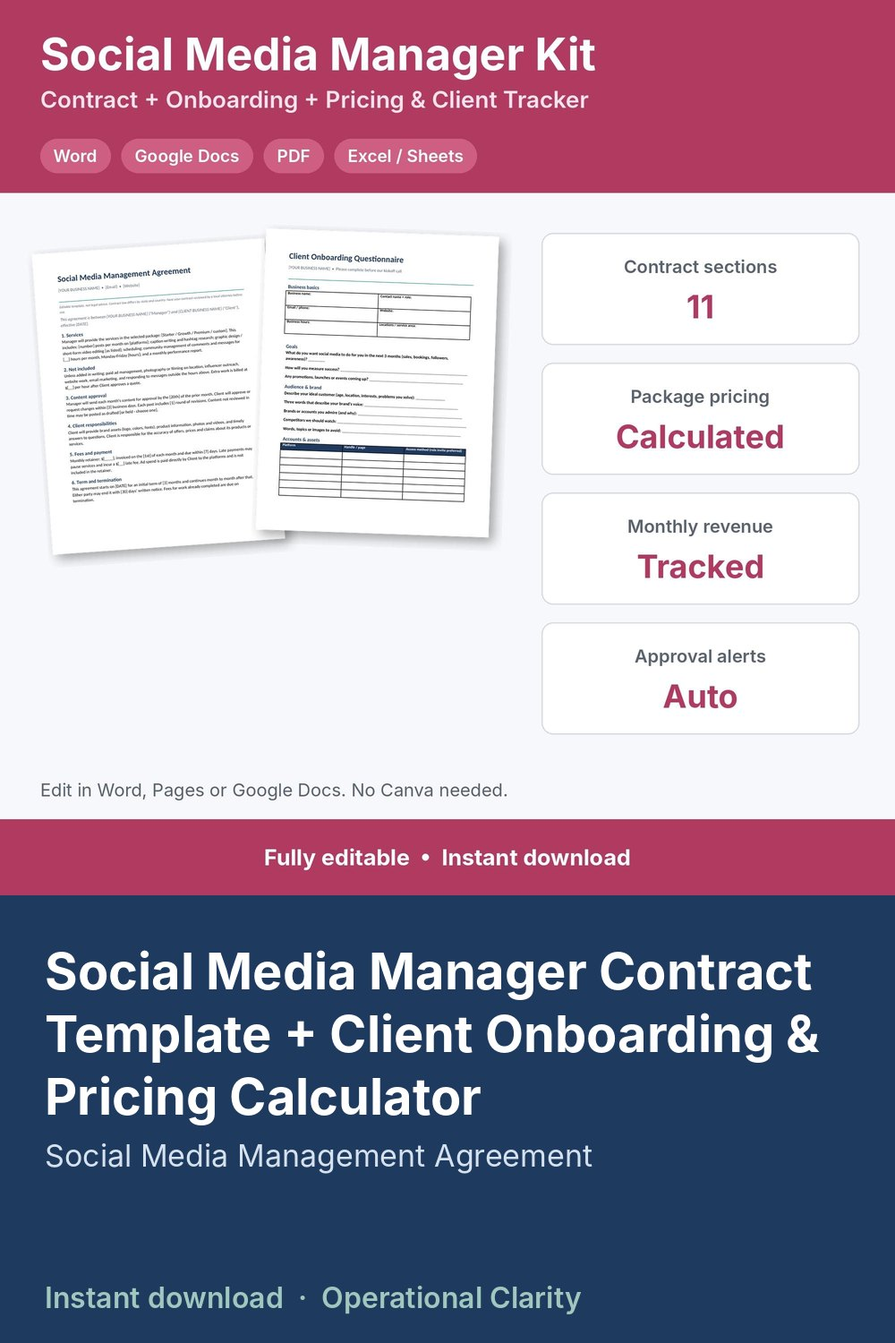
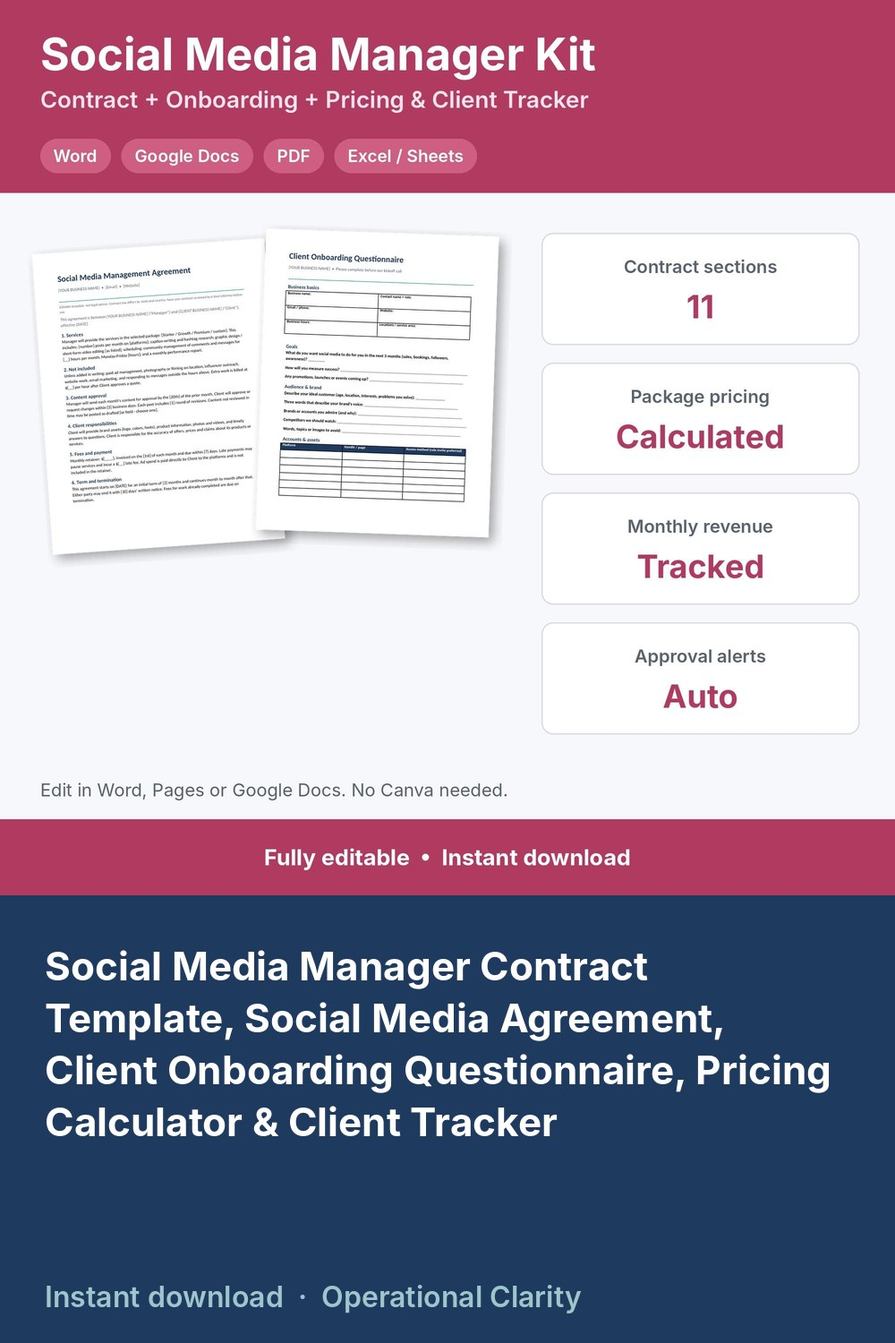
PROMO 10/30: pins for 2 rewritten listings (b) + Lash Tech (main, b); b-pin kicker cuts at commas; refresh feed

diff --git a/index.html b/index.html
@@ -7,6 +7,6 @@
 <div class="card"><h2><a href="recipe-cost-calculator.html">Recipe Cost Calculator</a></h2><p>Cost per batch, cost per serving and a suggested price for baked goods.</p></div>
 <div class="card"><h2><a href="paycheck-budget-calculator.html">Paycheck Budget Calculator</a></h2><p>Split bills across paychecks and see what is left from each one.</p></div>
 <div class="card"><h2><a href="landed-cost-calculator.html">Landed Cost Calculator</a></h2><p>True cost per unit after freight, duty and fees.</p></div>
-<h2 id="templates">Spreadsheet & Document Templates</h2><ul><li><a href="p/4595349035.html">2027 Planner Digital &amp; Printable</a></li><li><a href="p/4594598019.html">Airbnb Welcome Book Template Editable in Word Google Docs</a></li><li><a href="p/4602024296.html">Babysitting Forms Kit</a></li><li><a href="p/4553654453.html">Bakery Business Bundle</a></li><li><a href="p/4596837173.html">Bookkeeping Spreadsheet Small Business, Profit and Loss, Income Expense Tracker, Invoice Tracker, Bank Reconciliation, Accounting Template</a></li><li><a href="p/4554866019.html">Business Budget Spreadsheet</a></li><li><a href="p/4600601073.html">Candle Making Log Spreadsheet + Fragrance Load Calculator</a></li><li><a href="p/4601355308.html">Catering Contract Template Kit</a></li><li><a href="p/4598967865.html">Coffee Shop Business Plan Template + Startup &amp; Profit Planner Spreadsheet</a></li><li><a href="p/4602477706.html">Consignment Tracker Spreadsheet + Consignment Agreement</a></li><li><a href="p/4600607420.html">Consulting Contract Template + Statement of Work &amp; Proposal</a></li><li><a href="p/4554878636.html">Contract Tracker Spreadsheet</a></li><li><a href="p/4597002015.html">Cookie Pricing Calculator</a></li><li><a href="p/4601198780.html">Dance Studio Forms Kit</a></li><li><a href="p/4601100164.html">Daycare Menu Planner Spreadsheet + Weekly Menu Template</a></li><li><a href="p/4598811066.html">Embroidery Pricing Calculator Spreadsheet</a></li><li><a href="p/4594516468.html">Employee Schedule Template Excel Google Sheets</a></li><li><a href="p/4599677766.html">Event Planner Contract Template + Client Questionnaire &amp; Budget Tracker</a></li><li><a href="p/4599435344.html">Florist Order Form Template + Wedding Consultation Form &amp; Flower Pricing Calculator</a></li><li><a href="p/4602913827.html">Food Cost Bundle</a></li><li><a href="p/4597499808.html">Food Truck Business Plan Template + Startup &amp; Profit Planner Spreadsheet</a></li><li><a href="p/4602392090.html">Freelance Writer Contract Template Kit</a></li><li><a href="p/4601783746.html">Graphic Design Contract Template Kit</a></li><li><a href="p/4597022350.html">Home Daycare Starter Kit</a></li><li><a href="p/4601273740.html">Horse Boarding Contract Kit</a></li><li><a href="p/4552565761.html">Ingredient Cost Comparison Sheet</a></li><li><a href="p/4552578072.html">Inventory Count Sheet</a></li><li><a href="p/4554865995.html">Inventory Loss Tracker</a></li><li><a href="p/4553664350.html">Inventory Management Bundle</a></li><li><a href="p/4443844823.html">Inventory Tracker Spreadsheet with Reorder Alerts</a></li><li><a href="p/4602913735.html">Inventory and Ordering Bundle</a></li><li><a href="p/4554878596.html">Landed Cost Calculator Spreadsheet</a></li><li><a href="p/4602544610.html">Landscaping Contract Template Kit</a></li><li><a href="p/4598084241.html">Massage Intake Form, Massage Consent Form, Massage SOAP Notes, Health History + Client Tracker Spreadsheet</a></li><li><a href="p/4601646939.html">Mobile Bartending Contract Template Kit</a></li><li><a href="p/4554866001.html">Multi Location Inventory Tracker</a></li><li><a href="p/4602844224.html">Nail Tech Forms Kit</a></li><li><a href="p/4601947594.html">Nanny Contract Template Kit</a></li><li><a href="p/4594847811.html">Paycheck Budget Planner Spreadsheet</a></li><li><a href="p/4599761870.html">Personal Trainer Forms + Client Tracker</a></li><li><a href="p/4598178519.html">Pet Sitting Contract Template + Pet Care Sheet &amp; Booking Invoice Tracker</a></li><li><a href="p/4597992636.html">Photography Client Questionnaire Templates + Pricing Calculator &amp; Booking Tracker</a></li><li><a href="p/4599831777.html">Piano Lesson Tracker + Practice Assignment Sheet &amp; Studio Policy</a></li><li><a href="p/4594208500.html">Print on Demand Profit Tracker Spreadsheet</a></li><li><a href="p/4598251079.html">Printable Notary Journal 150 Entries + Notary Business Kit</a></li><li><a href="p/4554878680.html">Product Cost Calculator</a></li><li><a href="p/4603480063.html">Purchase Order + Inventory Dashboard</a></li><li><a href="p/4552565751.html">Purchase Order Approval Tracker</a></li><li><a href="p/4430807339.html">Purchase Order Tracker Spreadsheet &amp; Receiving Log</a></li><li><a href="p/4552578064.html">Purchasing SOP Templates</a></li><li><a href="p/4553664356.html">Purchasing Templates Bundle</a></li><li><a href="p/4558377143.html">QuickBooks Dashboard Template</a></li><li><a href="p/4554878614.html">Quote Comparison Spreadsheet</a></li><li><a href="p/4562652240.html">Recipe Cost Calculator Google Sheets Excel</a></li><li><a href="p/4552578048.html">Reorder Point Calculator</a></li><li><a href="p/4600974020.html">Restaurant Inventory Sheet + Food Cost Calculator</a></li><li><a href="p/4604903580.html">Restaurant Purchasing Bundle</a></li><li><a href="p/4604185746.html">Retail Shop Bundle</a></li><li><a href="p/4554878660.html">Returns Tracker Spreadsheet</a></li><li><a href="p/4554878628.html">Sales Forecast Spreadsheet</a></li><li><a href="p/4597001937.html">Salon Booth Rental Agreement Template</a></li><li><a href="p/4561265217.html">Simple Inventory Tracker Spreadsheet</a></li><li><a href="p/4605653122.html">Small Business Bookkeeping Dashboard</a></li><li><a href="p/4553654601.html">Small Business Operations Bundle</a></li><li><a href="p/4598888813.html">Soap Making Log Spreadsheet + Cost per Bar Calculator</a></li><li><a href="p/4598679324.html">Social Media Manager Contract Template + Client Onboarding &amp; Pricing Calculator</a></li><li><a href="p/4552578060.html">Supplier Price Tracker</a></li><li><a href="p/4552578052.html">Supplier Tracker Spreadsheet</a></li><li><a href="p/4602618784.html">Tattoo Consent Form Kit</a></li><li><a href="p/4596131544.html">Tax Deduction Tracker Spreadsheet</a></li><li><a href="p/4601852361.html">Tutoring Contract Template Kit</a></li><li><a href="p/4552565827.html">Vendor Onboarding Checklist</a></li><li><a href="p/4599059861.html">Virtual Assistant Contract Template + Client Onboarding &amp; Retainer Time Tracker</a></li><li><a href="p/4554865969.html">Warehouse Spreadsheet</a></li><li><a href="p/4602285754.html">Web Design Contract Template Kit</a></li><li><a href="p/4598332795.html">Wholesale Order Form Template + Wholesale Order Tracker Spreadsheet</a></li><li><a href="p/4561283977.html">Wholesale Price List Template Excel Google Sheets</a></li></ul>
+<h2 id="templates">Spreadsheet & Document Templates</h2><ul><li><a href="p/4595349035.html">2027 Planner Digital &amp; Printable</a></li><li><a href="p/4594598019.html">Airbnb Welcome Book Template Editable in Word Google Docs</a></li><li><a href="p/4602024296.html">Babysitting Forms Kit</a></li><li><a href="p/4553654453.html">Bakery Business Bundle</a></li><li><a href="p/4596837173.html">Bookkeeping Spreadsheet Small Business, Profit and Loss, Income Expense Tracker, Invoice Tracker, Bank Reconciliation, Accounting Template</a></li><li><a href="p/4554866019.html">Business Budget Spreadsheet</a></li><li><a href="p/4600601073.html">Candle Making Log Spreadsheet + Fragrance Load Calculator</a></li><li><a href="p/4601355308.html">Catering Contract Template Kit</a></li><li><a href="p/4598967865.html">Coffee Shop Business Plan Template + Startup &amp; Profit Planner Spreadsheet</a></li><li><a href="p/4602477706.html">Consignment Tracker Spreadsheet + Consignment Agreement</a></li><li><a href="p/4600607420.html">Consulting Contract Template + Statement of Work &amp; Proposal</a></li><li><a href="p/4554878636.html">Contract Tracker Spreadsheet</a></li><li><a href="p/4597002015.html">Cookie Pricing Calculator</a></li><li><a href="p/4601198780.html">Dance Studio Forms Kit</a></li><li><a href="p/4601100164.html">Daycare Menu Planner Spreadsheet + Weekly Menu Template</a></li><li><a href="p/4598811066.html">Embroidery Pricing Calculator Spreadsheet</a></li><li><a href="p/4594516468.html">Employee Schedule Template Excel Google Sheets</a></li><li><a href="p/4599677766.html">Event Planning Contract Template, Editable Event Planner Contract, Wedding Planner Agreement, Client Questionnaire, Budget &amp; Vendor Tracker</a></li><li><a href="p/4599435344.html">Florist Order Form Template + Wedding Consultation Form &amp; Flower Pricing Calculator</a></li><li><a href="p/4602913827.html">Food Cost Bundle</a></li><li><a href="p/4597499808.html">Food Truck Business Plan Template + Startup &amp; Profit Planner Spreadsheet</a></li><li><a href="p/4602392090.html">Freelance Writer Contract Template Kit</a></li><li><a href="p/4601783746.html">Graphic Design Contract Template Kit</a></li><li><a href="p/4597022350.html">Home Daycare Starter Kit</a></li><li><a href="p/4601273740.html">Horse Boarding Contract Kit</a></li><li><a href="p/4552565761.html">Ingredient Cost Comparison Sheet</a></li><li><a href="p/4552578072.html">Inventory Count Sheet</a></li><li><a href="p/4554865995.html">Inventory Loss Tracker</a></li><li><a href="p/4553664350.html">Inventory Management Bundle</a></li><li><a href="p/4443844823.html">Inventory Tracker Spreadsheet with Reorder Alerts</a></li><li><a href="p/4602913735.html">Inventory and Ordering Bundle</a></li><li><a href="p/4554878596.html">Landed Cost Calculator Spreadsheet</a></li><li><a href="p/4602544610.html">Landscaping Contract Template Kit</a></li><li><a href="p/4606330823.html">Lash Tech Forms Kit</a></li><li><a href="p/4598084241.html">Massage Intake Form, Massage Consent Form, Massage SOAP Notes, Health History + Client Tracker Spreadsheet</a></li><li><a href="p/4601646939.html">Mobile Bartending Contract Template Kit</a></li><li><a href="p/4554866001.html">Multi Location Inventory Tracker</a></li><li><a href="p/4602844224.html">Nail Tech Forms Kit</a></li><li><a href="p/4601947594.html">Nanny Contract Template Kit</a></li><li><a href="p/4594847811.html">Paycheck Budget Planner Spreadsheet</a></li><li><a href="p/4599761870.html">Personal Trainer Forms + Client Tracker</a></li><li><a href="p/4598178519.html">Pet Sitting Contract Template + Pet Care Sheet &amp; Booking Invoice Tracker</a></li><li><a href="p/4597992636.html">Photography Client Questionnaire Templates + Pricing Calculator &amp; Booking Tracker</a></li><li><a href="p/4599831777.html">Piano Lesson Tracker + Practice Assignment Sheet &amp; Studio Policy</a></li><li><a href="p/4594208500.html">Print on Demand Profit Tracker Spreadsheet</a></li><li><a href="p/4598251079.html">Printable Notary Journal 150 Entries + Notary Business Kit</a></li><li><a href="p/4554878680.html">Product Cost Calculator</a></li><li><a href="p/4603480063.html">Purchase Order + Inventory Dashboard</a></li><li><a href="p/4552565751.html">Purchase Order Approval Tracker</a></li><li><a href="p/4430807339.html">Purchase Order Tracker Spreadsheet &amp; Receiving Log</a></li><li><a href="p/4552578064.html">Purchasing SOP Templates</a></li><li><a href="p/4553664356.html">Purchasing Templates Bundle</a></li><li><a href="p/4558377143.html">QuickBooks Dashboard Template</a></li><li><a href="p/4554878614.html">Quote Comparison Spreadsheet</a></li><li><a href="p/4562652240.html">Recipe Cost Calculator Google Sheets Excel</a></li><li><a href="p/4552578048.html">Reorder Point Calculator</a></li><li><a href="p/4600974020.html">Restaurant Inventory Sheet + Food Cost Calculator</a></li><li><a href="p/4604903580.html">Restaurant Purchasing Bundle</a></li><li><a href="p/4604185746.html">Retail Shop Bundle</a></li><li><a href="p/4554878660.html">Returns Tracker Spreadsheet</a></li><li><a href="p/4554878628.html">Sales Forecast Spreadsheet</a></li><li><a href="p/4597001937.html">Salon Booth Rental Agreement Template</a></li><li><a href="p/4561265217.html">Simple Inventory Tracker Spreadsheet</a></li><li><a href="p/4605653122.html">Small Business Bookkeeping Dashboard</a></li><li><a href="p/4553654601.html">Small Business Operations Bundle</a></li><li><a href="p/4598888813.html">Soap Making Log Spreadsheet + Cost per Bar Calculator</a></li><li><a href="p/4598679324.html">Social Media Manager Contract Template, Social Media Agreement, Client Onboarding Questionnaire, Pricing Calculator &amp; Client Tracker</a></li><li><a href="p/4552578060.html">Supplier Price Tracker</a></li><li><a href="p/4552578052.html">Supplier Tracker Spreadsheet</a></li><li><a href="p/4602618784.html">Tattoo Consent Form Kit</a></li><li><a href="p/4596131544.html">Tax Deduction Tracker Spreadsheet</a></li><li><a href="p/4601852361.html">Tutoring Contract Template Kit</a></li><li><a href="p/4552565827.html">Vendor Onboarding Checklist</a></li><li><a href="p/4599059861.html">Virtual Assistant Contract Template + Client Onboarding &amp; Retainer Time Tracker</a></li><li><a href="p/4554865969.html">Warehouse Spreadsheet</a></li><li><a href="p/4602285754.html">Web Design Contract Template Kit</a></li><li><a href="p/4598332795.html">Wholesale Order Form Template + Wholesale Order Tracker Spreadsheet</a></li><li><a href="p/4561283977.html">Wholesale Price List Template Excel Google Sheets</a></li></ul>
 <p>Want the full spreadsheet versions? <a class="cta" href="https://www.etsy.com/shop/Operationalclarity">Browse all templates on Etsy</a></p>
 </main><footer>Free tools by <a href="https://www.etsy.com/shop/Operationalclarity">Operational Clarity</a>. Estimates only, not financial or tax advice. Not affiliated with Etsy.</footer></body></html>

diff --git a/p/4606330823.html b/p/4606330823.html
@@ -1,0 +1,8 @@
+<!doctype html><html lang="en"><head><meta charset="utf-8"><meta name="viewport" content="width=device-width,initial-scale=1">
+<title>Lash Tech Forms Kit | Operational Clarity</title><meta name="description" content="Price your sets and fills, get the consent form and patch test record on file, and know when every client is due for a fill: a complete lash tech forms kit">
+<link rel="canonical" href="https://hgmanagementusa-bot.github.io/operationalclarity-tools/p/4606330823.html"><link rel="stylesheet" href="../style.css">
+<meta property="og:title" content="Lash Tech Forms Kit"><meta property="og:image" content="https://hgmanagementusa-bot.github.io/operationalclarity-tools/pins/4606330823.jpg"><meta property="og:type" content="product"></head>
+<body><header><a href="../index.html">Operational Clarity · Small Business Templates</a></header><main>
+<h1>Lash Tech Forms Kit</h1><img src="../pins/4606330823.jpg" alt="Lash Tech Forms Kit" style="max-width:100%;height:auto;border-radius:8px">
+<p><a class="cta" href="https://www.etsy.com/listing/4606330823/lash-tech-forms-kit-editable-eyelash">Get it on Etsy</a></p><p>Price your sets and fills, get the consent form and patch test record on file, and know when every client is due for a fill: a complete lash tech forms kit with a working pricing calculator and client tracker, not just a few printable pages.</p><p>WHAT&#x27;S INSIDE<br>- Eyelash Extension Intake &amp; Consent Form (Word + PDF, 2 pages): client details, service and look wanted, simple yes / no client self-disclosure questions, patch test record or signed decline, 8 initialed acknowledgments (natural lash cycle and retention, no picking, professional removal, fill terms, written aftercare received, studio policies agreed), consent and release, photo consent, client and lash artist signatures, review / update log.<br>- Lash Studio Policies (Word + PDF): 9 ready-to-edit policies for deposits, arriving lash-ready, late arrivals, cancellations and no-shows, fills (fill window and % of lashes left), removals, patch tests, guests and children, payments and right to refuse, plus a blank page for your own aftercare instructions.<br>- Lash Map &amp; Service Record (Word + PDF, 2 pages): lash map by zone for each eye (lengths, curl, diameter, fans, style, look), visit history with days since last visit and retention %, deposits and balances, retention notes.<br>- Lash Service Menu &amp; Price List (Word + PDF): editable menu with times and prices for full sets, fills, lifts and add-ons.<br>- Lash Tech Pricing Calculator &amp; Client Tracker (Google Sheets / Excel, 6 tabs):<br>  * Service Menu: minutes, product cost and your price for each set, fill, lift and add-on; suggested price from your target hourly pay, overhead and card fees; what you keep and your real pay per hour; BELOW SUGGESTED flag<br>  * Settings: target pay, monthly overhead, booked hours, card fees, deposit % and minimum, rounding, fill window<br>  * Clients: contact details, lash map, consent form date, patch test date or waiver, visits, total spent, average retention at fills, next fill due and rebook alerts (REBOOK NOW / DUE SOON / BOOKED); no health information stored<br>  * Appointments: service and add-on looked up from your menu, discounts, deposits, refunds, status, retention % at fills, days since last visit, balances and alerts (CONSENT MISSING / PATCH TEST MISSING / BALANCE DUE / DEPOSIT DUE / SEND FORMS / FILL WINDOW PASSED / UPCOMING / UPDATE STATUS)<br>  * Dashboard: revenue, tips, product costs, card fees, what you keep, pay per hour worked, average ticket, average retention, no-show rate, deposits held, month-by-month and service-by-service tables, chart and a list of appointments that need attention<br>- START HERE guide (PDF)</p><p>HOW IT WORKS<br>1. Enter your target pay, overhead, card fees and fill window on Settings.<br>2. Add your services on the Service Menu tab, fix anything flagged BELOW SUGGESTED, and copy your prices into the printable menu.<br>3. Send new clients the policies and the Intake &amp; Consent Form before their first set; note the consent date and patch test (or waiver) on Clients.<br>4. Log each booking and deposit; price, time and product cost fill in automatically, and late fills are flagged.<br>5. After each visit, record payment, tip and retention %, and watch the alerts for missing forms, balances, deposits and clients due for a fill.<br>Example data (10 services, 14 sample clients, 60 appointments) shows how it all connects; delete it and type your own. Yellow cells = type here, green cells = calculated.</p><p>FORMATS<br>- Word .docx (edit in Microsoft Word, Google Docs, Pages or LibreOffice) + PDF, US Letter<br>- Excel .xlsx made for Google Sheets (also works in Excel and LibreOffice; no macros)</p><p>This is an instant digital download, no physical item will be shipped.</p><p>Editable template, not legal advice. Have it reviewed by a local attorney and check your state board of cosmetology and local requirements (consent wording, patch tests, client records) before you use it. The client questions are simple yes / no self-disclosures: information only, not a medical screening tool and not medical advice. No aftercare or medical advice is included.</p><p><a class="cta" href="https://www.etsy.com/listing/4606330823/lash-tech-forms-kit-editable-eyelash">Get it on Etsy</a></p>
+</main><footer>By <a href="https://www.etsy.com/shop/Operationalclarity">Operational Clarity</a>. Not affiliated with Etsy.</footer></body></html>

diff --git a/p/4598679324.html b/p/4598679324.html
@@ -1,8 +1,8 @@
 <!doctype html><html lang="en"><head><meta charset="utf-8"><meta name="viewport" content="width=device-width,initial-scale=1">
-<title>Social Media Manager Contract Template + Client Onboarding &amp; Pricing Calculator | Operational Clarity</title><meta name="description" content="SOCIAL MEDIA MANAGER CONTRACT TEMPLATE KIT | Social Media Management Agreement + Client Onboarding Questionnaire + Monthly Report + Pricing Calculator &amp; Cl">
+<title>Social Media Manager Contract Template, Social Media Agreement, Client Onboarding Questionnaire, Pricing Calculator &amp; Client Tracker | Operational Clarity</title><meta name="description" content="SOCIAL MEDIA MANAGER CONTRACT TEMPLATE KIT | Social Media Management Agreement + Client Onboarding Questionnaire + Monthly Report + Pricing Calculator &amp; Cl">
 <link rel="canonical" href="https://hgmanagementusa-bot.github.io/operationalclarity-tools/p/4598679324.html"><link rel="stylesheet" href="../style.css">
-<meta property="og:title" content="Social Media Manager Contract Template + Client Onboarding &amp; Pricing Calculator"><meta property="og:image" content="https://hgmanagementusa-bot.github.io/operationalclarity-tools/pins/4598679324.jpg"><meta property="og:type" content="product"></head>
+<meta property="og:title" content="Social Media Manager Contract Template, Social Media Agreement, Client Onboarding Questionnaire, Pricing Calculator &amp; Client Tracker"><meta property="og:image" content="https://hgmanagementusa-bot.github.io/operationalclarity-tools/pins/4598679324.jpg"><meta property="og:type" content="product"></head>
 <body><header><a href="../index.html">Operational Clarity · Small Business Templates</a></header><main>
-<h1>Social Media Manager Contract Template + Client Onboarding &amp; Pricing Calculator</h1><img src="../pins/4598679324.jpg" alt="Social Media Manager Contract Template + Client Onboarding &amp; Pricing Calculator" style="max-width:100%;height:auto;border-radius:8px">
+<h1>Social Media Manager Contract Template, Social Media Agreement, Client Onboarding Questionnaire, Pricing Calculator &amp; Client Tracker</h1><img src="../pins/4598679324.jpg" alt="Social Media Manager Contract Template, Social Media Agreement, Client Onboarding Questionnaire, Pricing Calculator &amp; Client Tracker" style="max-width:100%;height:auto;border-radius:8px">
 <p><a class="cta" href="https://www.etsy.com/listing/4598679324/social-media-manager-contract-template">Get it on Etsy</a></p><p>SOCIAL MEDIA MANAGER CONTRACT TEMPLATE KIT | Social Media Management Agreement + Client Onboarding Questionnaire + Monthly Report + Pricing Calculator &amp; Client Tracker | Word, Google Docs, PDF, Excel / Google Sheets | Instant Download</p><p>Everything a freelance social media manager needs to sign clients, price packages properly and keep content moving. Edit in Word, Pages or Google Docs - no Canva needed.</p><p>SOCIAL MEDIA MANAGEMENT CONTRACT (Word + PDF, 11 sections)<br>• Services and posts per month by platform<br>• What&#x27;s NOT included (ads management, filming, extra hours) and your extra-work rate<br>• Content approval deadlines and revision rounds<br>• Client responsibilities, fees and payment, late fees, ad spend paid separately<br>• Term and termination, account access (role invites, no shared passwords), content ownership and portfolio use<br>• No guaranteed results clause, confidentiality, limitation of liability, signatures</p><p>CLIENT ONBOARDING QUESTIONNAIRE (Word + PDF)<br>• Goals and how success is measured, audience, brand voice, accounts you admire, competitors, words to avoid<br>• Accounts table and asset checklist (logos, colors, photo library, FAQs, approval contacts)</p><p>MONTHLY REPORT TEMPLATE (Word + PDF)<br>• Highlights, results by platform, top 3 posts, next month&#x27;s plan</p><p>PRICING CALCULATOR &amp; CLIENT TRACKER (Excel / Google Sheets)<br>• Package pricing: posts per month x minutes per post + community management, reporting and strategy hours + tool costs = monthly price, price per post and what you really earn per hour<br>• Clients: package, retainer (or custom price), start date, billing day, next invoice date, status<br>• Content calendar (1,500 rows): post date, client, platform, type, caption, status (Draft / Sent for approval / Approved / Scheduled / Posted) and an APPROVAL OVERDUE alert<br>• Invoices with paid / open / overdue status<br>• Dashboard: monthly recurring revenue, yearly run rate, unpaid invoices, overdue approvals, this month&#x27;s posts by status</p><p>WHAT YOU GET (one ZIP file)<br>• 1_Social_Media_Management_Contract.docx + .pdf<br>• 2_Client_Onboarding_Questionnaire.docx + .pdf<br>• 3_Monthly_Report_Template.docx + .pdf<br>• Social_Media_Manager_Pricing_and_Client_Tracker.xlsx<br>• 0_START_HERE guide (Word + PDF)</p><p>Editable template, not legal advice. Have your contract reviewed by a local attorney before use.</p><p>INSTANT DIGITAL DOWNLOAD. No physical item will be shipped.</p><p><a class="cta" href="https://www.etsy.com/listing/4598679324/social-media-manager-contract-template">Get it on Etsy</a></p>
 </main><footer>By <a href="https://www.etsy.com/shop/Operationalclarity">Operational Clarity</a>. Not affiliated with Etsy.</footer></body></html>

diff --git a/p/4599677766.html b/p/4599677766.html
@@ -1,8 +1,8 @@
 <!doctype html><html lang="en"><head><meta charset="utf-8"><meta name="viewport" content="width=device-width,initial-scale=1">
-<title>Event Planner Contract Template + Client Questionnaire &amp; Budget Tracker | Operational Clarity</title><meta name="description" content="EVENT PLANNER CONTRACT TEMPLATE + CLIENT QUESTIONNAIRE + BUDGET, VENDOR &amp; TIMELINE TRACKER | Editable Word (no Canva needed), PDF &amp; Excel / Google Sheets |">
+<title>Event Planning Contract Template, Editable Event Planner Contract, Wedding Planner Agreement, Client Questionnaire, Budget &amp; Vendor Tracker | Operational Clarity</title><meta name="description" content="EVENT PLANNER CONTRACT TEMPLATE + CLIENT QUESTIONNAIRE + BUDGET, VENDOR &amp; TIMELINE TRACKER | Editable Word (no Canva needed), PDF &amp; Excel / Google Sheets |">
 <link rel="canonical" href="https://hgmanagementusa-bot.github.io/operationalclarity-tools/p/4599677766.html"><link rel="stylesheet" href="../style.css">
-<meta property="og:title" content="Event Planner Contract Template + Client Questionnaire &amp; Budget Tracker"><meta property="og:image" content="https://hgmanagementusa-bot.github.io/operationalclarity-tools/pins/4599677766.jpg"><meta property="og:type" content="product"></head>
+<meta property="og:title" content="Event Planning Contract Template, Editable Event Planner Contract, Wedding Planner Agreement, Client Questionnaire, Budget &amp; Vendor Tracker"><meta property="og:image" content="https://hgmanagementusa-bot.github.io/operationalclarity-tools/pins/4599677766.jpg"><meta property="og:type" content="product"></head>
 <body><header><a href="../index.html">Operational Clarity · Small Business Templates</a></header><main>
-<h1>Event Planner Contract Template + Client Questionnaire &amp; Budget Tracker</h1><img src="../pins/4599677766.jpg" alt="Event Planner Contract Template + Client Questionnaire &amp; Budget Tracker" style="max-width:100%;height:auto;border-radius:8px">
+<h1>Event Planning Contract Template, Editable Event Planner Contract, Wedding Planner Agreement, Client Questionnaire, Budget &amp; Vendor Tracker</h1><img src="../pins/4599677766.jpg" alt="Event Planning Contract Template, Editable Event Planner Contract, Wedding Planner Agreement, Client Questionnaire, Budget &amp; Vendor Tracker" style="max-width:100%;height:auto;border-radius:8px">
 <p><a class="cta" href="https://www.etsy.com/listing/4599677766/event-planner-contract-template-client">Get it on Etsy</a></p><p>EVENT PLANNER CONTRACT TEMPLATE + CLIENT QUESTIONNAIRE + BUDGET, VENDOR &amp; TIMELINE TRACKER | Editable Word (no Canva needed), PDF &amp; Excel / Google Sheets | Instant Download</p><p>Sign clients with a clear contract, collect everything you need up front, and run each event&#x27;s budget, vendor payments and timeline from one spreadsheet.</p><p>EVENT PLANNING SERVICES AGREEMENT (Word + PDF, 11 sections)<br>• Services by package (full planning, partial planning, day-of coordination)<br>• What&#x27;s not included and extra-hour rate<br>• Fee and payment schedule with non-refundable retainer<br>• Vendors: client pays vendors directly; you&#x27;re not liable for vendor performance<br>• Client responsibilities and final headcount deadline<br>• Changes, cancellation and postponement<br>• Event-day hours, assistants and meal break<br>• Photos and promotion, limitation of liability, signatures</p><p>CLIENT EVENT QUESTIONNAIRE (Word + PDF)<br>• Event basics, budget, decision makers, vision, vendors already booked, priorities, dietary and accessibility needs</p><p>BUDGET, VENDOR &amp; TIMELINE TRACKER (Excel / Google Sheets)<br>• Event: client, date, guests, budget, and your fee as flat, % of budget or hourly, with a client payment schedule (paid / due in 7 days / overdue)<br>• Budget: estimated vs actual by category, over-estimate lines in red, paid amounts pulled from vendors, forecast spend and cost per guest<br>• Vendors: contract signed, total, deposit and balance due dates, paid so far, balance left, next payment with DUE IN 7 DAYS and OVERDUE alerts<br>• Timeline: tasks by days before the event; due dates move automatically when the event date changes<br>• Dashboard: days until the event, budget left, vendor balances, unsigned contracts, overdue tasks, your fee paid vs due</p><p>WHAT YOU GET<br>• Event Planning Services Agreement (Word + PDF)<br>• Client Event Questionnaire (Word + PDF)<br>• Event Planner Budget, Vendor &amp; Timeline Tracker (.xlsx)<br>• Start Here guide (PDF)</p><p>GOOD TO KNOW<br>• Digital download. No physical item will be shipped.<br>• Editable template, not legal advice. Have your contract reviewed by a local attorney.<br>• For your own business. No reselling or sharing of the files.</p><p><a class="cta" href="https://www.etsy.com/listing/4599677766/event-planner-contract-template-client">Get it on Etsy</a></p>
 </main><footer>By <a href="https://www.etsy.com/shop/Operationalclarity">Operational Clarity</a>. Not affiliated with Etsy.</footer></body></html>
